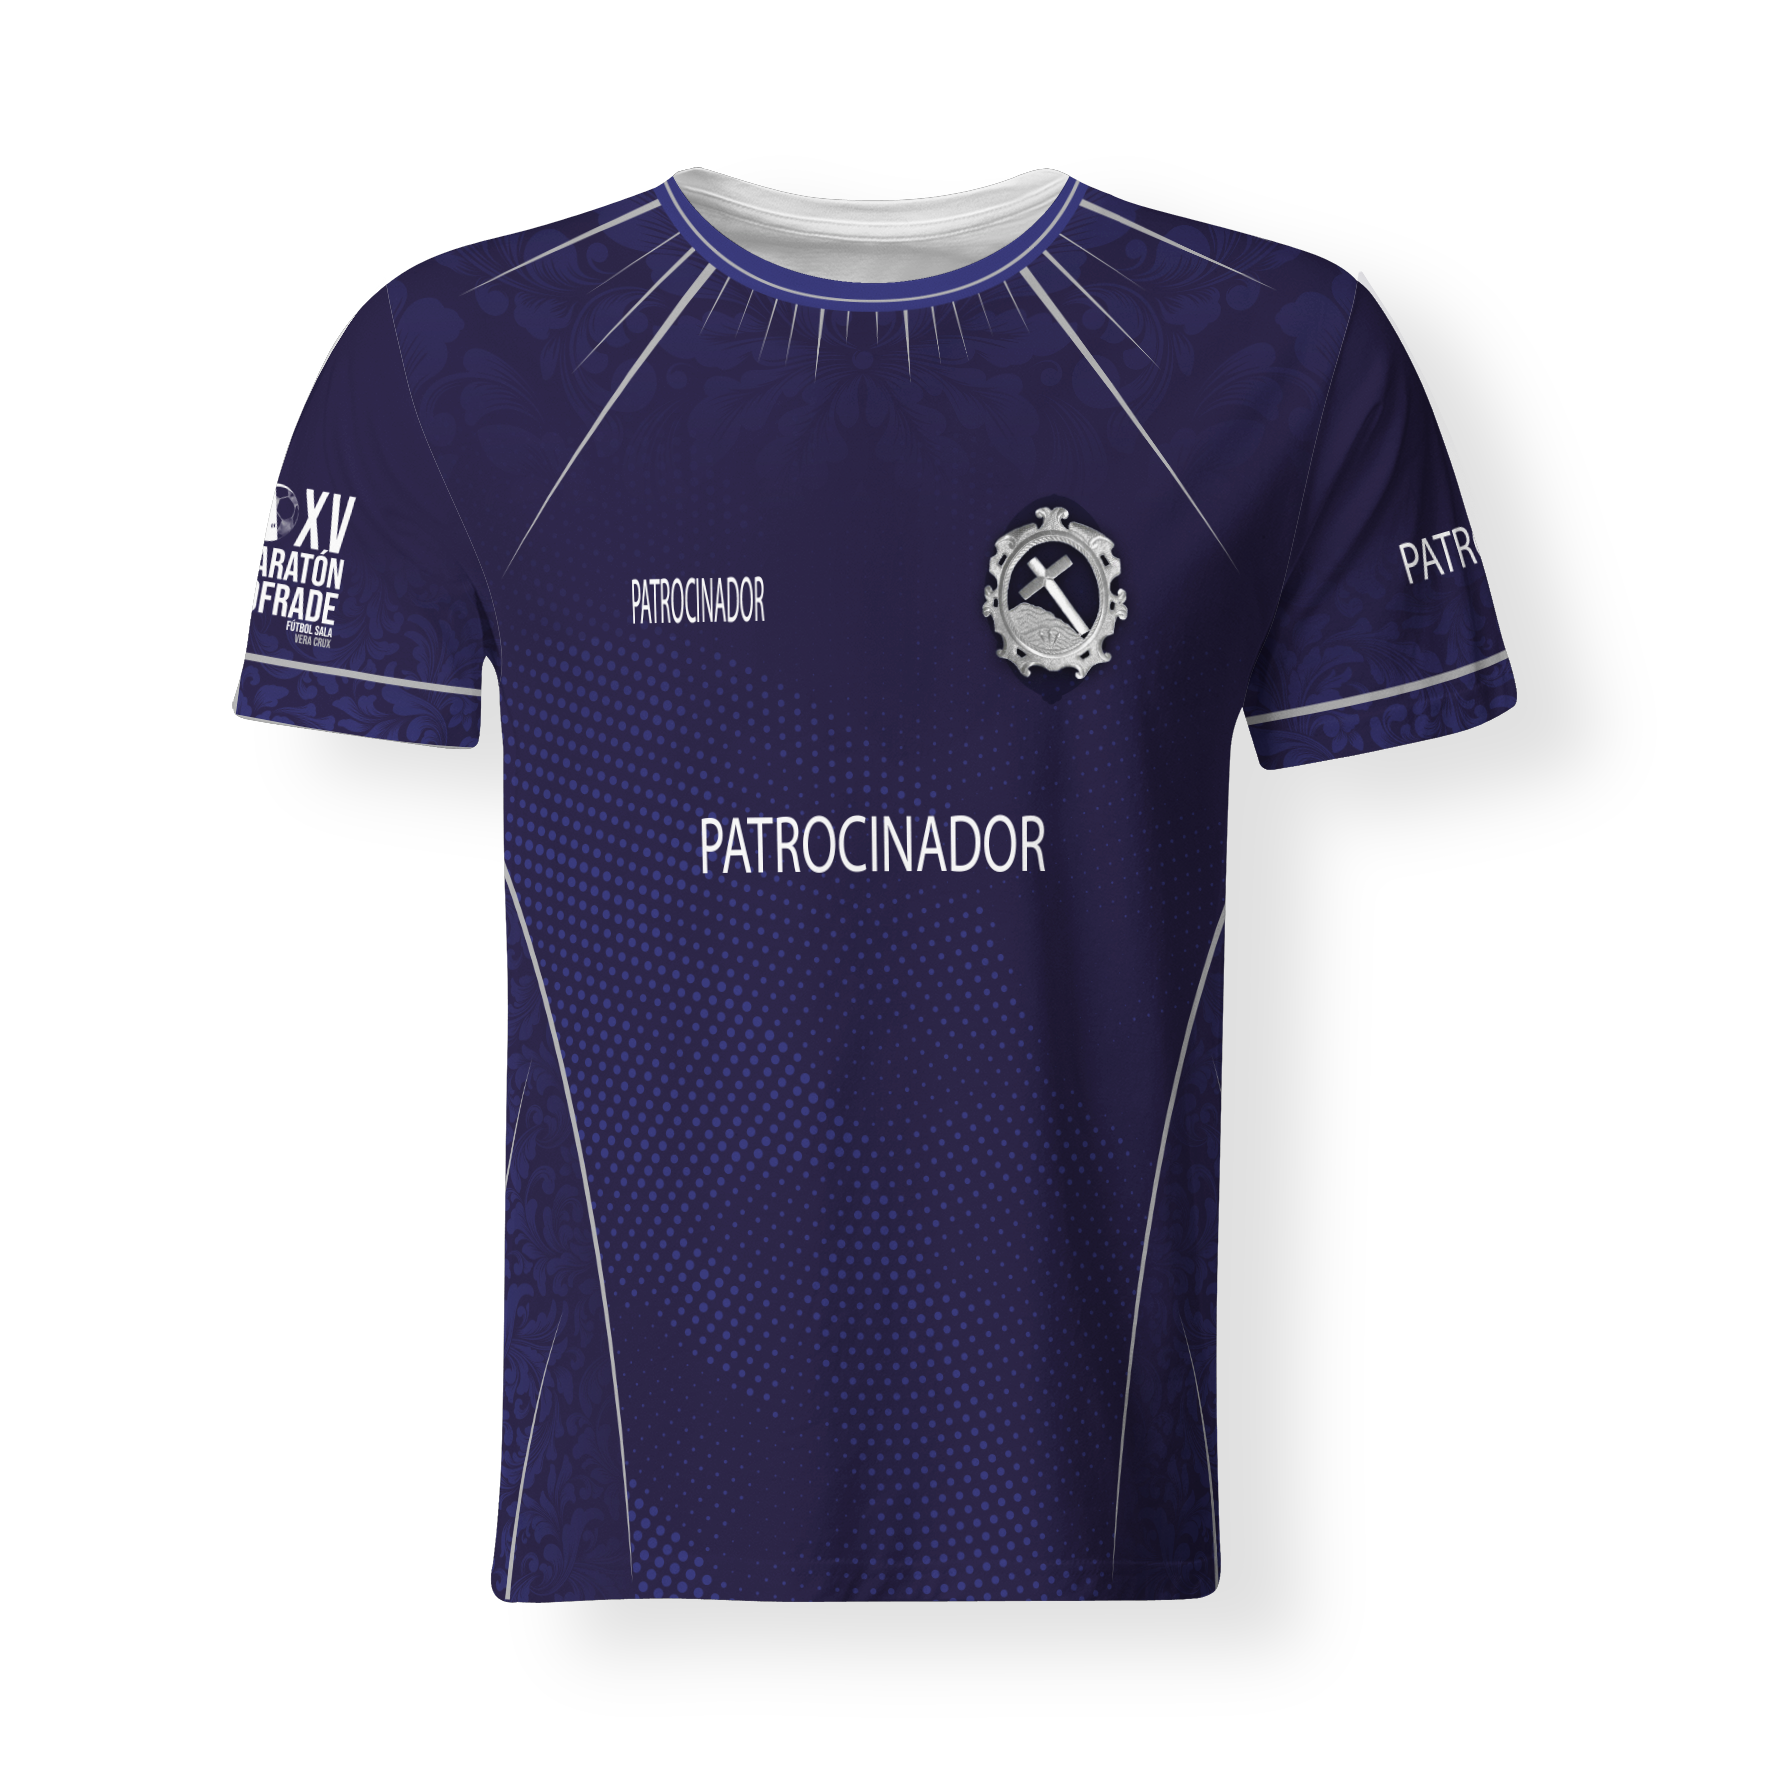
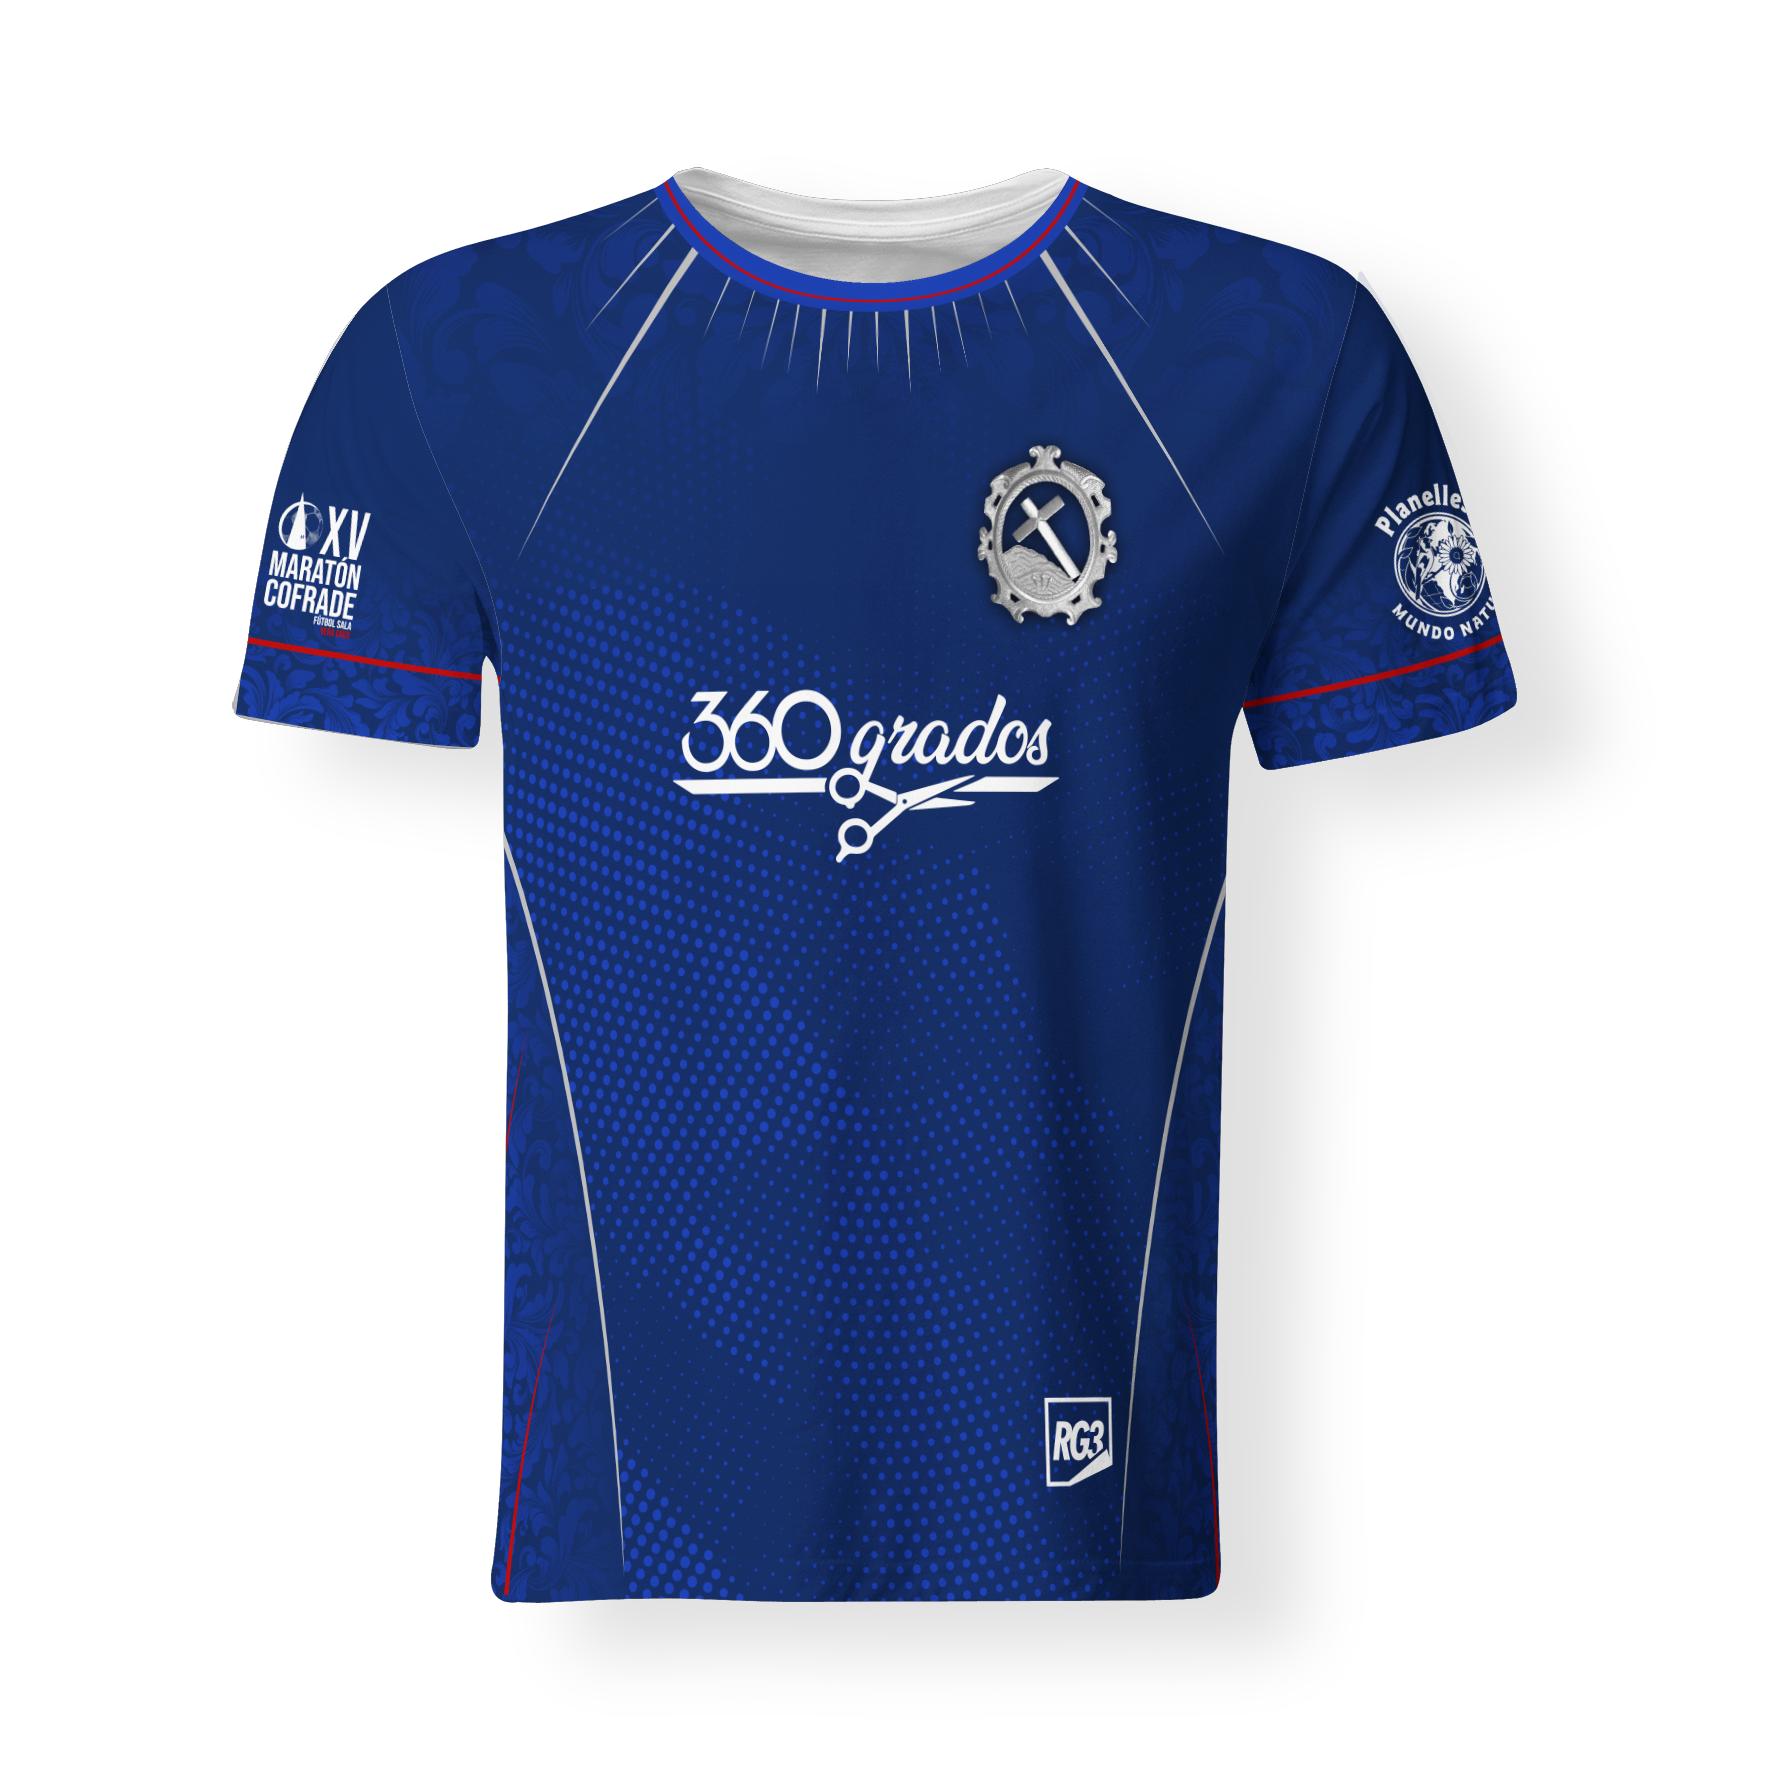
Añadir equipo Jesús Caído con escudo, camisetas y tienda

diff --git a/equipos.js b/equipos.js
@@ -7,7 +7,7 @@ const teams = [
   { id: 2,  group: null, slot: null, name: 'PADRE JESÚS', cofradia: 'Real Cofradía de Ntro. Padre Jesús Nazareno y María Santísima de los Dolores', primary: '#6a1b9a', secondary: '#ffffff', kit: 'solid', shieldImg: 'kits/pjes.png', kitImgA: 'kits/PADRE-JESUS-A.png', kitImgB: 'kits/PADRE-JESUS-B.png', pending: false },
   { id: 3,  group: null, slot: null, name: 'RESUCITADO', cofradia: 'Cofradía del Santísimo Cristo Resucitado', primary: '#c62828', secondary: '#ffffff', kit: 'solid', shieldImg: 'kits/escudo-resucitado.png', kitImgA: 'kits/RESUCITADO-A.png', kitImgB: 'kits/RESUCITADO-B.png', pending: false },
   { id: 4,  group: null, slot: null, name: 'GRUPO JOVEN VERA CRUX', cofradia: 'Cofradía de la Santa Vera Crux y Santiago Apóstol', primary: '#B5DCCA', secondary: '#000000', kit: 'solid', shieldImg: 'kits/escudo-grupo-joven.png', kitImgA: 'kits/GRUPO-JOVEN-A.png', kitImgB: 'kits/GRUPO-JOVEN-B.png', pending: false },
-  { id: 5,  group: null, slot: null, name: 'Equipo 5',  cofradia: '', primary: '#6a1b9a', secondary: '#ffffff', kit: 'solid',     pending: true },
+  { id: 5,  group: null, slot: null, name: 'JESÚS CAÍDO', cofradia: 'Agrupación Musical Jesús Caído', primary: '#0d1b4b', secondary: '#ffffff', kit: 'solid', shieldImg: 'kits/escudo-jesus-caido.png', kitImgA: 'kits/JESUS-CAIDO-A.png', kitImgB: 'kits/JESUS-CAIDO-B.png', pending: false },
   { id: 6,  group: null, slot: null, name: 'Equipo 6',  cofradia: '', primary: '#006064', secondary: '#ffffff', kit: 'stripes_v', pending: true },
   { id: 7,  group: null, slot: null, name: 'Equipo 7',  cofradia: '', primary: '#f57f17', secondary: '#000000', kit: 'hoops',     pending: true },
   { id: 8,  group: null, slot: null, name: 'Equipo 8',  cofradia: '', primary: '#1a237e', secondary: '#e53935', kit: 'diagonal',  pending: true },

diff --git a/tienda.js b/tienda.js
@@ -10,7 +10,8 @@ const products = [
   { id:1, name:'HUMILDAD',    cofradia:'Hdad. y Cofradía de Nazarenos del S Cristo de la Humildad en su Presentación Ante Pilato y Ntra. Madre Y Sra. de Consolación y Esperanza', primary:'#800020', secondary:'#ffffff', kit:'solid', kitImgA:'kits/HUMILDAD-A.png',    kitImgB:'kits/HUMILDAD-B.png'    },
   { id:2, name:'PADRE JESÚS', cofradia:'Hdad. de Ntro. Padre Jesús',              primary:'#6a1b9a', secondary:'#ffffff', kit:'solid', kitImgA:'kits/PADRE-JESUS-A.png',  kitImgB:'kits/PADRE-JESUS-B.png'  },
   { id:3, name:'RESUCITADO',         cofradia:'Cofradía del Santísimo Cristo Resucitado',          primary:'#c62828', secondary:'#ffffff', kit:'solid', kitImgA:'kits/RESUCITADO-A.png',  kitImgB:'kits/RESUCITADO-B.png'  },
-  { id:4, name:'GRUPO JOVEN VERA CRUX', cofradia:'Cofradía de la Santa Vera Crux y Santiago Apóstol', primary:'#B5DCCA', secondary:'#000000', kit:'solid', kitImgA:'kits/GRUPO-JOVEN-A.png', kitImgB:'kits/GRUPO-JOVEN-B.png' },
+  { id:4, name:'GRUPO JOVEN VERA CRUX', cofradia:'Cofradía de la Santa Vera Crux y Santiago Apóstol', primary:'#B5DCCA', secondary:'#000000', kit:'solid', kitImgA:'kits/GRUPO-JOVEN-A.png',  kitImgB:'kits/GRUPO-JOVEN-B.png'  },
+  { id:5, name:'JESÚS CAÍDO',          cofradia:'Agrupación Musical Jesús Caído',                     primary:'#0d1b4b', secondary:'#ffffff', kit:'solid', kitImgA:'kits/JESUS-CAIDO-A.png', kitImgB:'kits/JESUS-CAIDO-B.png' },
 ];
 
 const SIZES = ['2A', '4A', '6A', '8A', '10A', '12A', '14A', 'XS', 'S', 'M', 'L', 'XL', 'XXL'];
